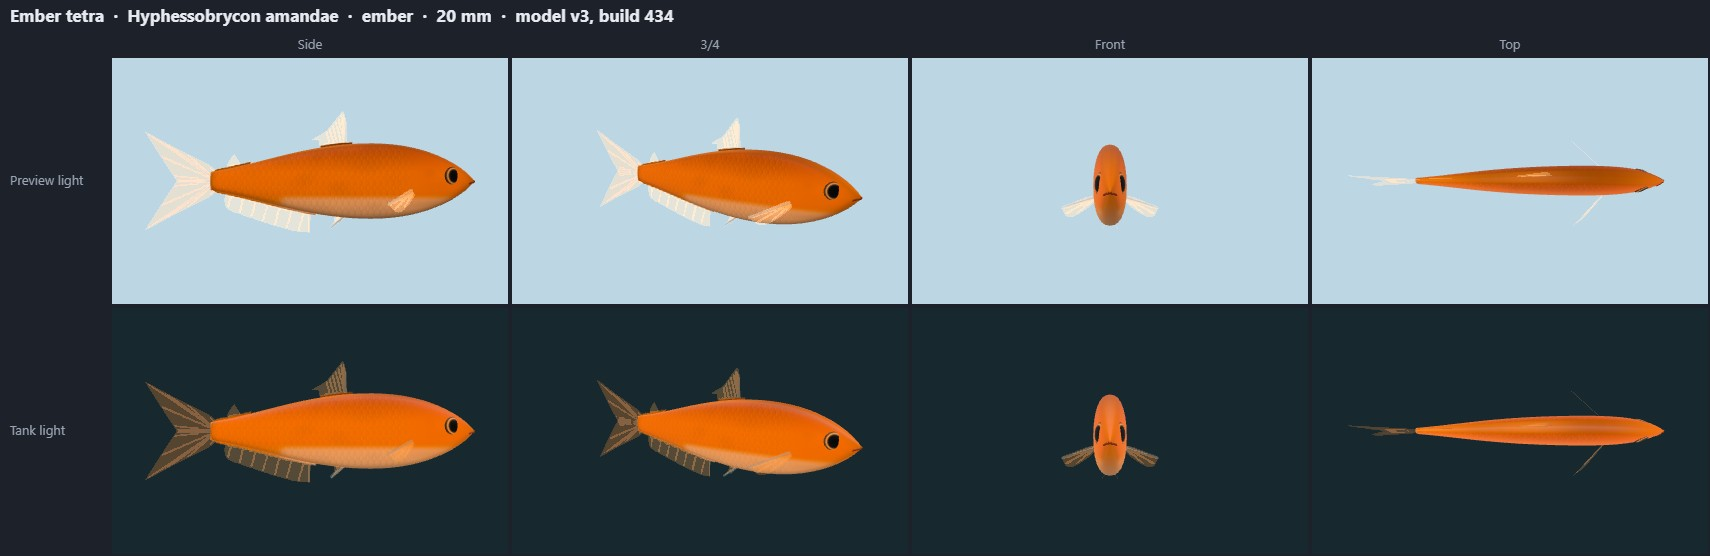
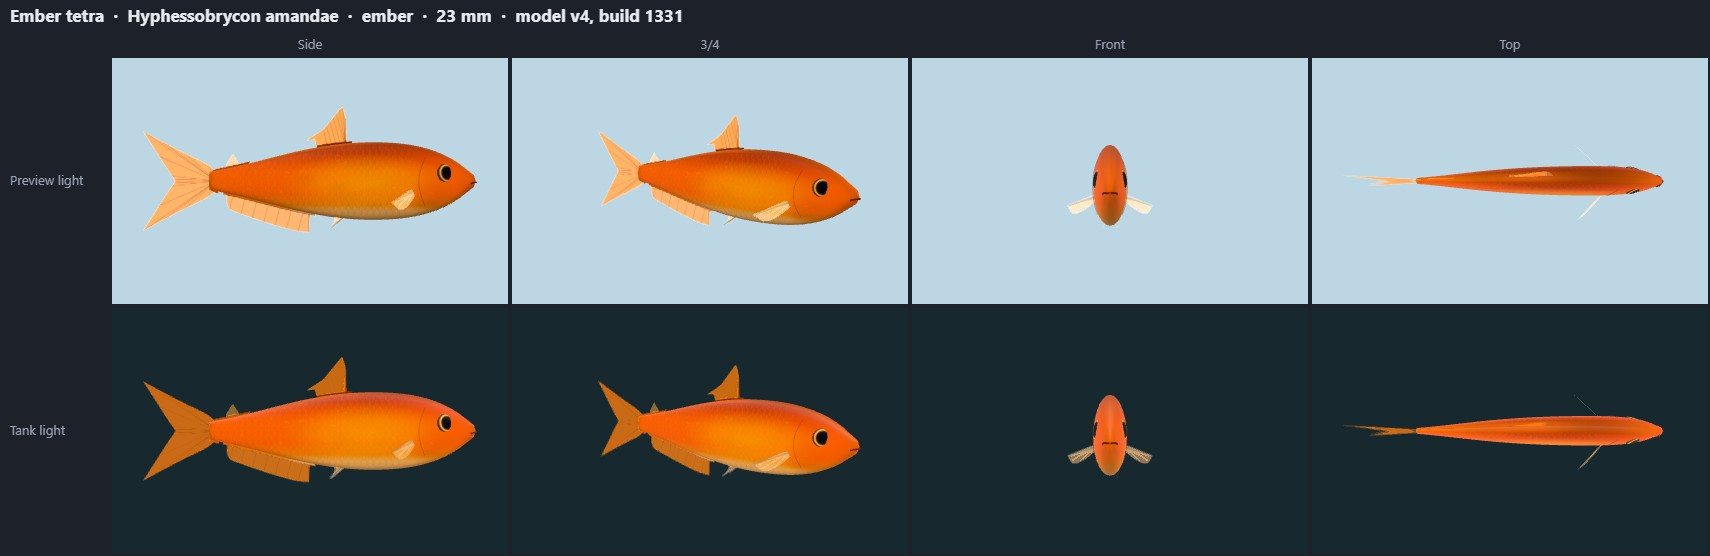
Ember tetra model sheet recorded: v4 (the ChatGPT realism pass)

diff --git a/public/model-sheets/index.html b/public/model-sheets/index.html
@@ -10,45 +10,49 @@ figure { margin: 8px 0 14px; padding: 8px; background: var(--panel); border-radi
 img { display: block; max-width: 100%; height: auto }
 </style></head><body>
 <h1>Model sheets</h1>
-<p>Pre-rendered review images of every TankLook animal model (no WebGL needed): 137 models, 86 species, written at build 1166.
+<p>Pre-rendered review images of every TankLook animal model (no WebGL needed): 147 models, 96 species, written at build 1331.
 Each sheet shows the Side, 3/4, Front, Top views; top row in the plain preview light, bottom row at true size in the default tank's LED light and water.
 Click a sheet for the full-size image (1710 × 556 px). Interactive version: <a href="../review.html">review.html</a>.</p>
 <h2>Freshwater fish</h2>
 <figure id="neon"><figcaption><b>Neon tetra</b> · <i>Paracheirodon innesi</i> · neon · 38 mm · model v3 (build 434, 2026-10-15)</figcaption><a href="neon.jpg"><img src="neon.jpg" width="1710" height="556" loading="lazy" alt="Neon tetra (Paracheirodon innesi), model v3: Side, 3/4, Front, Top views, preview light (top row) and tank light (bottom row)"></a></figure>
 <figure id="cardinal"><figcaption><b>Cardinal tetra</b> · <i>Paracheirodon axelrodi</i> · cardinal · 45 mm · model v3 (build 434, 2026-10-15)</figcaption><a href="cardinal.jpg"><img src="cardinal.jpg" width="1710" height="556" loading="lazy" alt="Cardinal tetra (Paracheirodon axelrodi), model v3: Side, 3/4, Front, Top views, preview light (top row) and tank light (bottom row)"></a></figure>
-<figure id="ember"><figcaption><b>Ember tetra</b> · <i>Hyphessobrycon amandae</i> · ember · 20 mm · model v3 (build 434, 2026-10-15)</figcaption><a href="ember.jpg"><img src="ember.jpg" width="1710" height="556" loading="lazy" alt="Ember tetra (Hyphessobrycon amandae), model v3: Side, 3/4, Front, Top views, preview light (top row) and tank light (bottom row)"></a></figure>
+<figure id="ember"><figcaption><b>Ember tetra</b> · <i>Hyphessobrycon amandae</i> · ember · 23 mm · model v4 (build 1331, 2026-10-27)</figcaption><a href="ember.jpg"><img src="ember.jpg" width="1710" height="556" loading="lazy" alt="Ember tetra (Hyphessobrycon amandae), model v4: Side, 3/4, Front, Top views, preview light (top row) and tank light (bottom row)"></a></figure>
 <figure id="dwarfpencil"><figcaption><b>Dwarf pencilfish</b> · <i>Nannostomus marginatus</i> · dwarfpencil · 35 mm · model v2 (build 1166, 2026-10-22)</figcaption><a href="dwarfpencil.jpg"><img src="dwarfpencil.jpg" width="1710" height="556" loading="lazy" alt="Dwarf pencilfish (Nannostomus marginatus), model v2: Side, 3/4, Front, Top views, preview light (top row) and tank light (bottom row)"></a></figure>
+<figure id="greenneon"><figcaption><b>Green neon tetra</b> · <i>Paracheirodon simulans</i> · greenneon · 30 mm · model v1 (build 1271, 2026-10-26)</figcaption><a href="greenneon.jpg"><img src="greenneon.jpg" width="1710" height="556" loading="lazy" alt="Green neon tetra (Paracheirodon simulans), model v1: Side, 3/4, Front, Top views, preview light (top row) and tank light (bottom row)"></a></figure>
+<figure id="merah"><figcaption><b>Strawberry rasbora</b> · <i>Boraras merah</i> · merah · 24 mm · model v1 (build 1271, 2026-10-26)</figcaption><a href="merah.jpg"><img src="merah.jpg" width="1710" height="556" loading="lazy" alt="Strawberry rasbora (Boraras merah), model v1: Side, 3/4, Front, Top views, preview light (top row) and tank light (bottom row)"></a></figure>
+<figure id="exclamation"><figcaption><b>Exclamation point rasbora</b> · <i>Boraras urophthalmoides</i> · exclamation · 19 mm · model v1 (build 1271, 2026-10-26)</figcaption><a href="exclamation.jpg"><img src="exclamation.jpg" width="1710" height="556" loading="lazy" alt="Exclamation point rasbora (Boraras urophthalmoides), model v1: Side, 3/4, Front, Top views, preview light (top row) and tank light (bottom row)"></a></figure>
+<figure id="dwarfrasbora"><figcaption><b>Dwarf spotted rasbora</b> · <i>Boraras maculatus</i> · dwarfrasbora · 30 mm · model v1 (build 1271, 2026-10-26)</figcaption><a href="dwarfrasbora.jpg"><img src="dwarfrasbora.jpg" width="1710" height="556" loading="lazy" alt="Dwarf spotted rasbora (Boraras maculatus), model v1: Side, 3/4, Front, Top views, preview light (top row) and tank light (bottom row)"></a></figure>
 <figure id="rummynose"><figcaption><b>Rummy-nose tetra</b> · <i>Hemigrammus rhodostomus</i> · rummynose · 50 mm · model v3 (build 434, 2026-10-15)</figcaption><a href="rummynose.jpg"><img src="rummynose.jpg" width="1710" height="556" loading="lazy" alt="Rummy-nose tetra (Hemigrammus rhodostomus), model v3: Side, 3/4, Front, Top views, preview light (top row) and tank light (bottom row)"></a></figure>
 <figure id="harlequin"><figcaption><b>Harlequin rasbora</b> · <i>Trigonostigma heteromorpha</i> · harlequin · 50 mm · model v2 (build 386, 2026-10-14)</figcaption><a href="harlequin.jpg"><img src="harlequin.jpg" width="1710" height="556" loading="lazy" alt="Harlequin rasbora (Trigonostigma heteromorpha), model v2: Side, 3/4, Front, Top views, preview light (top row) and tank light (bottom row)"></a></figure>
-<figure id="chili"><figcaption><b>Chili rasbora</b> · <i>Boraras brigittae</i> · chili · 35 mm · model v3 (build 434, 2026-10-15)</figcaption><a href="chili.jpg"><img src="chili.jpg" width="1710" height="556" loading="lazy" alt="Chili rasbora (Boraras brigittae), model v3: Side, 3/4, Front, Top views, preview light (top row) and tank light (bottom row)"></a></figure>
+<figure id="chili"><figcaption><b>Chili rasbora</b> · <i>Boraras brigittae</i> · chili · 23 mm · model v3 (build 434, 2026-10-15)</figcaption><a href="chili.jpg"><img src="chili.jpg" width="1710" height="556" loading="lazy" alt="Chili rasbora (Boraras brigittae), model v3: Side, 3/4, Front, Top views, preview light (top row) and tank light (bottom row)"></a></figure>
 <figure id="danio"><figcaption><b>Zebra danio</b> · <i>Danio rerio</i> · danio · 50 mm · model v2 (build 372, 2026-10-14)</figcaption><a href="danio.jpg"><img src="danio.jpg" width="1710" height="556" loading="lazy" alt="Zebra danio (Danio rerio), model v2: Side, 3/4, Front, Top views, preview light (top row) and tank light (bottom row)"></a></figure>
 <figure id="whitecloud"><figcaption><b>White cloud mountain minnow</b> · <i>Tanichthys albonubes</i> · whitecloud · 40 mm · model v1 (build 568, 2026-10-16)</figcaption><a href="whitecloud.jpg"><img src="whitecloud.jpg" width="1710" height="556" loading="lazy" alt="White cloud mountain minnow (Tanichthys albonubes), model v1: Side, 3/4, Front, Top views, preview light (top row) and tank light (bottom row)"></a></figure>
 <figure id="cpd"><figcaption><b>Celestial pearl danio ♂</b> · <i>Danio margaritatus</i> · cpd · 25 mm · model v3 (build 434, 2026-10-15)</figcaption><a href="cpd.jpg"><img src="cpd.jpg" width="1710" height="556" loading="lazy" alt="Celestial pearl danio ♂ (Danio margaritatus), model v3: Side, 3/4, Front, Top views, preview light (top row) and tank light (bottom row)"></a></figure>
 <figure id="cpd-f"><figcaption><b>Celestial pearl danio ♀</b> · <i>Danio margaritatus</i> · cpd~f · 25 mm · model v3 (build 434, 2026-10-15)</figcaption><a href="cpd-f.jpg"><img src="cpd-f.jpg" width="1710" height="556" loading="lazy" alt="Celestial pearl danio ♀ (Danio margaritatus), model v3: Side, 3/4, Front, Top views, preview light (top row) and tank light (bottom row)"></a></figure>
-<figure id="hatchet"><figcaption><b>Marbled hatchetfish</b> · <i>Carnegiella strigata</i> · hatchet · 35 mm · model v2 (build 351, 2026-10-14)</figcaption><a href="hatchet.jpg"><img src="hatchet.jpg" width="1710" height="556" loading="lazy" alt="Marbled hatchetfish (Carnegiella strigata), model v2: Side, 3/4, Front, Top views, preview light (top row) and tank light (bottom row)"></a></figure>
+<figure id="hatchet"><figcaption><b>Marbled hatchetfish</b> · <i>Carnegiella strigata</i> · hatchet · 40 mm · model v2 (build 351, 2026-10-14)</figcaption><a href="hatchet.jpg"><img src="hatchet.jpg" width="1710" height="556" loading="lazy" alt="Marbled hatchetfish (Carnegiella strigata), model v2: Side, 3/4, Front, Top views, preview light (top row) and tank light (bottom row)"></a></figure>
 <figure id="cherrybarb"><figcaption><b>Cherry barb ♂</b> · <i>Rohanella (Puntius) titteya</i> · cherrybarb · 55 mm · model v2 (build 372, 2026-10-14)</figcaption><a href="cherrybarb.jpg"><img src="cherrybarb.jpg" width="1710" height="556" loading="lazy" alt="Cherry barb ♂ (Rohanella (Puntius) titteya), model v2: Side, 3/4, Front, Top views, preview light (top row) and tank light (bottom row)"></a></figure>
 <figure id="cherrybarb-f"><figcaption><b>Cherry barb ♀</b> · <i>Rohanella (Puntius) titteya</i> · cherrybarb~f · 50 mm · model v2 (build 372, 2026-10-14)</figcaption><a href="cherrybarb-f.jpg"><img src="cherrybarb-f.jpg" width="1710" height="556" loading="lazy" alt="Cherry barb ♀ (Rohanella (Puntius) titteya), model v2: Side, 3/4, Front, Top views, preview light (top row) and tank light (bottom row)"></a></figure>
 <figure id="tigerbarb"><figcaption><b>Tiger barb</b> · <i>Puntigrus tetrazona</i> · tigerbarb · 70 mm · model v2 (build 372, 2026-10-14)</figcaption><a href="tigerbarb.jpg"><img src="tigerbarb.jpg" width="1710" height="556" loading="lazy" alt="Tiger barb (Puntigrus tetrazona), model v2: Side, 3/4, Front, Top views, preview light (top row) and tank light (bottom row)"></a></figure>
 <figure id="boesemani"><figcaption><b>Boeseman's rainbowfish ♂</b> · <i>Melanotaenia boesemani</i> · boesemani · 108 mm · model v1 (build 567, 2026-10-16)</figcaption><a href="boesemani.jpg"><img src="boesemani.jpg" width="1710" height="556" loading="lazy" alt="Boeseman's rainbowfish ♂ (Melanotaenia boesemani), model v1: Side, 3/4, Front, Top views, preview light (top row) and tank light (bottom row)"></a></figure>
 <figure id="boesemani-f"><figcaption><b>Boeseman's rainbowfish ♀</b> · <i>Melanotaenia boesemani</i> · boesemani~f · 80 mm · model v1 (build 567, 2026-10-16)</figcaption><a href="boesemani-f.jpg"><img src="boesemani-f.jpg" width="1710" height="556" loading="lazy" alt="Boeseman's rainbowfish ♀ (Melanotaenia boesemani), model v1: Side, 3/4, Front, Top views, preview light (top row) and tank light (bottom row)"></a></figure>
-<figure id="guppy"><figcaption><b>Guppy ♂</b> · <i>Poecilia reticulata</i> · guppy · 30 mm · model v2 (build 351, 2026-10-14)</figcaption><a href="guppy.jpg"><img src="guppy.jpg" width="1710" height="556" loading="lazy" alt="Guppy ♂ (Poecilia reticulata), model v2: Side, 3/4, Front, Top views, preview light (top row) and tank light (bottom row)"></a></figure>
+<figure id="guppy"><figcaption><b>Guppy ♂</b> · <i>Poecilia reticulata</i> · guppy · 38 mm · model v2 (build 351, 2026-10-14)</figcaption><a href="guppy.jpg"><img src="guppy.jpg" width="1710" height="556" loading="lazy" alt="Guppy ♂ (Poecilia reticulata), model v2: Side, 3/4, Front, Top views, preview light (top row) and tank light (bottom row)"></a></figure>
 <figure id="guppy-f"><figcaption><b>Guppy ♀</b> · <i>Poecilia reticulata</i> · guppy~f · 54 mm · model v2 (build 351, 2026-10-14)</figcaption><a href="guppy-f.jpg"><img src="guppy-f.jpg" width="1710" height="556" loading="lazy" alt="Guppy ♀ (Poecilia reticulata), model v2: Side, 3/4, Front, Top views, preview light (top row) and tank light (bottom row)"></a></figure>
 <figure id="platy"><figcaption><b>Platy ♂</b> · <i>Xiphophorus maculatus</i> · platy · 40 mm · model v3 (build 435, 2026-10-15)</figcaption><a href="platy.jpg"><img src="platy.jpg" width="1710" height="556" loading="lazy" alt="Platy ♂ (Xiphophorus maculatus), model v3: Side, 3/4, Front, Top views, preview light (top row) and tank light (bottom row)"></a></figure>
 <figure id="platy-f"><figcaption><b>Platy ♀</b> · <i>Xiphophorus maculatus</i> · platy~f · 60 mm · model v1 (build 435, 2026-10-15)</figcaption><a href="platy-f.jpg"><img src="platy-f.jpg" width="1710" height="556" loading="lazy" alt="Platy ♀ (Xiphophorus maculatus), model v1: Side, 3/4, Front, Top views, preview light (top row) and tank light (bottom row)"></a></figure>
 <figure id="molly"><figcaption><b>Black molly ♂</b> · <i>Poecilia sphenops</i> · molly · 85 mm · model v3 (build 435, 2026-10-15)</figcaption><a href="molly.jpg"><img src="molly.jpg" width="1710" height="556" loading="lazy" alt="Black molly ♂ (Poecilia sphenops), model v3: Side, 3/4, Front, Top views, preview light (top row) and tank light (bottom row)"></a></figure>
 <figure id="molly-f"><figcaption><b>Black molly ♀</b> · <i>Poecilia sphenops</i> · molly~f · 96 mm · model v1 (build 435, 2026-10-15)</figcaption><a href="molly-f.jpg"><img src="molly-f.jpg" width="1710" height="556" loading="lazy" alt="Black molly ♀ (Poecilia sphenops), model v1: Side, 3/4, Front, Top views, preview light (top row) and tank light (bottom row)"></a></figure>
-<figure id="swordtail"><figcaption><b>Swordtail ♂</b> · <i>Xiphophorus hellerii</i> · swordtail · 140 mm · model v2 (build 351, 2026-10-14)</figcaption><a href="swordtail.jpg"><img src="swordtail.jpg" width="1710" height="556" loading="lazy" alt="Swordtail ♂ (Xiphophorus hellerii), model v2: Side, 3/4, Front, Top views, preview light (top row) and tank light (bottom row)"></a></figure>
-<figure id="swordtail-f"><figcaption><b>Swordtail ♀</b> · <i>Xiphophorus hellerii</i> · swordtail~f · 160 mm · model v2 (build 351, 2026-10-14)</figcaption><a href="swordtail-f.jpg"><img src="swordtail-f.jpg" width="1710" height="556" loading="lazy" alt="Swordtail ♀ (Xiphophorus hellerii), model v2: Side, 3/4, Front, Top views, preview light (top row) and tank light (bottom row)"></a></figure>
+<figure id="swordtail"><figcaption><b>Swordtail ♂</b> · <i>Xiphophorus hellerii</i> · swordtail · 110 mm · model v2 (build 351, 2026-10-14)</figcaption><a href="swordtail.jpg"><img src="swordtail.jpg" width="1710" height="556" loading="lazy" alt="Swordtail ♂ (Xiphophorus hellerii), model v2: Side, 3/4, Front, Top views, preview light (top row) and tank light (bottom row)"></a></figure>
+<figure id="swordtail-f"><figcaption><b>Swordtail ♀</b> · <i>Xiphophorus hellerii</i> · swordtail~f · 120 mm · model v2 (build 351, 2026-10-14)</figcaption><a href="swordtail-f.jpg"><img src="swordtail-f.jpg" width="1710" height="556" loading="lazy" alt="Swordtail ♀ (Xiphophorus hellerii), model v2: Side, 3/4, Front, Top views, preview light (top row) and tank light (bottom row)"></a></figure>
 <figure id="betta"><figcaption><b>Betta ♂</b> · <i>Betta splendens</i> · betta · 65 mm · model v2 (build 351, 2026-10-14)</figcaption><a href="betta.jpg"><img src="betta.jpg" width="1710" height="556" loading="lazy" alt="Betta ♂ (Betta splendens), model v2: Side, 3/4, Front, Top views, preview light (top row) and tank light (bottom row)"></a></figure>
 <figure id="betta-f"><figcaption><b>Betta ♀</b> · <i>Betta splendens</i> · betta~f · 55 mm · model v2 (build 351, 2026-10-14)</figcaption><a href="betta-f.jpg"><img src="betta-f.jpg" width="1710" height="556" loading="lazy" alt="Betta ♀ (Betta splendens), model v2: Side, 3/4, Front, Top views, preview light (top row) and tank light (bottom row)"></a></figure>
-<figure id="dwarfgourami"><figcaption><b>Dwarf gourami ♂</b> · <i>Trichogaster lalius</i> · dwarfgourami · 95 mm · model v2 (build 330, 2026-10-14)</figcaption><a href="dwarfgourami.jpg"><img src="dwarfgourami.jpg" width="1710" height="556" loading="lazy" alt="Dwarf gourami ♂ (Trichogaster lalius), model v2: Side, 3/4, Front, Top views, preview light (top row) and tank light (bottom row)"></a></figure>
+<figure id="dwarfgourami"><figcaption><b>Dwarf gourami ♂</b> · <i>Trichogaster lalius</i> · dwarfgourami · 80 mm · model v2 (build 330, 2026-10-14)</figcaption><a href="dwarfgourami.jpg"><img src="dwarfgourami.jpg" width="1710" height="556" loading="lazy" alt="Dwarf gourami ♂ (Trichogaster lalius), model v2: Side, 3/4, Front, Top views, preview light (top row) and tank light (bottom row)"></a></figure>
 <figure id="dwarfgourami-f"><figcaption><b>Dwarf gourami ♀</b> · <i>Trichogaster lalius</i> · dwarfgourami~f · 65 mm · model v2 (build 330, 2026-10-14)</figcaption><a href="dwarfgourami-f.jpg"><img src="dwarfgourami-f.jpg" width="1710" height="556" loading="lazy" alt="Dwarf gourami ♀ (Trichogaster lalius), model v2: Side, 3/4, Front, Top views, preview light (top row) and tank light (bottom row)"></a></figure>
-<figure id="honeygourami"><figcaption><b>Honey gourami ♂</b> · <i>Trichogaster chuna</i> · honeygourami · 50 mm · model v3 (build 330, 2026-10-14)</figcaption><a href="honeygourami.jpg"><img src="honeygourami.jpg" width="1710" height="556" loading="lazy" alt="Honey gourami ♂ (Trichogaster chuna), model v3: Side, 3/4, Front, Top views, preview light (top row) and tank light (bottom row)"></a></figure>
-<figure id="honeygourami-f"><figcaption><b>Honey gourami ♀</b> · <i>Trichogaster chuna</i> · honeygourami~f · 50 mm · model v2 (build 330, 2026-10-14)</figcaption><a href="honeygourami-f.jpg"><img src="honeygourami-f.jpg" width="1710" height="556" loading="lazy" alt="Honey gourami ♀ (Trichogaster chuna), model v2: Side, 3/4, Front, Top views, preview light (top row) and tank light (bottom row)"></a></figure>
+<figure id="honeygourami"><figcaption><b>Honey gourami ♂</b> · <i>Trichogaster chuna</i> · honeygourami · 60 mm · model v3 (build 330, 2026-10-14)</figcaption><a href="honeygourami.jpg"><img src="honeygourami.jpg" width="1710" height="556" loading="lazy" alt="Honey gourami ♂ (Trichogaster chuna), model v3: Side, 3/4, Front, Top views, preview light (top row) and tank light (bottom row)"></a></figure>
+<figure id="honeygourami-f"><figcaption><b>Honey gourami ♀</b> · <i>Trichogaster chuna</i> · honeygourami~f · 60 mm · model v2 (build 330, 2026-10-14)</figcaption><a href="honeygourami-f.jpg"><img src="honeygourami-f.jpg" width="1710" height="556" loading="lazy" alt="Honey gourami ♀ (Trichogaster chuna), model v2: Side, 3/4, Front, Top views, preview light (top row) and tank light (bottom row)"></a></figure>
 <figure id="gourami"><figcaption><b>Pearl gourami ♂</b> · <i>Trichopodus leerii</i> · gourami · 120 mm · model v2 (build 330, 2026-10-14)</figcaption><a href="gourami.jpg"><img src="gourami.jpg" width="1710" height="556" loading="lazy" alt="Pearl gourami ♂ (Trichopodus leerii), model v2: Side, 3/4, Front, Top views, preview light (top row) and tank light (bottom row)"></a></figure>
 <figure id="gourami-f"><figcaption><b>Pearl gourami ♀</b> · <i>Trichopodus leerii</i> · gourami~f · 110 mm · model v2 (build 330, 2026-10-14)</figcaption><a href="gourami-f.jpg"><img src="gourami-f.jpg" width="1710" height="556" loading="lazy" alt="Pearl gourami ♀ (Trichopodus leerii), model v2: Side, 3/4, Front, Top views, preview light (top row) and tank light (bottom row)"></a></figure>
-<figure id="gbr"><figcaption><b>German blue ram ♂</b> · <i>Mikrogeophagus ramirezi</i> · gbr · 60 mm · model v2 (build 330, 2026-10-14)</figcaption><a href="gbr.jpg"><img src="gbr.jpg" width="1710" height="556" loading="lazy" alt="German blue ram ♂ (Mikrogeophagus ramirezi), model v2: Side, 3/4, Front, Top views, preview light (top row) and tank light (bottom row)"></a></figure>
-<figure id="gbr-f"><figcaption><b>German blue ram ♀</b> · <i>Mikrogeophagus ramirezi</i> · gbr~f · 50 mm · model v2 (build 330, 2026-10-14)</figcaption><a href="gbr-f.jpg"><img src="gbr-f.jpg" width="1710" height="556" loading="lazy" alt="German blue ram ♀ (Mikrogeophagus ramirezi), model v2: Side, 3/4, Front, Top views, preview light (top row) and tank light (bottom row)"></a></figure>
+<figure id="gbr"><figcaption><b>German blue ram ♂</b> · <i>Mikrogeophagus ramirezi</i> · gbr · 50 mm · model v2 (build 330, 2026-10-14)</figcaption><a href="gbr.jpg"><img src="gbr.jpg" width="1710" height="556" loading="lazy" alt="German blue ram ♂ (Mikrogeophagus ramirezi), model v2: Side, 3/4, Front, Top views, preview light (top row) and tank light (bottom row)"></a></figure>
+<figure id="gbr-f"><figcaption><b>German blue ram ♀</b> · <i>Mikrogeophagus ramirezi</i> · gbr~f · 42 mm · model v2 (build 330, 2026-10-14)</figcaption><a href="gbr-f.jpg"><img src="gbr-f.jpg" width="1710" height="556" loading="lazy" alt="German blue ram ♀ (Mikrogeophagus ramirezi), model v2: Side, 3/4, Front, Top views, preview light (top row) and tank light (bottom row)"></a></figure>
 <figure id="bolivianram"><figcaption><b>Bolivian ram</b> · <i>Mikrogeophagus altispinosus</i> · bolivianram · 89 mm · model v2 (build 330, 2026-10-14)</figcaption><a href="bolivianram.jpg"><img src="bolivianram.jpg" width="1710" height="556" loading="lazy" alt="Bolivian ram (Mikrogeophagus altispinosus), model v2: Side, 3/4, Front, Top views, preview light (top row) and tank light (bottom row)"></a></figure>
 <figure id="kribensis"><figcaption><b>Kribensis ♂</b> · <i>Pelvicachromis pulcher</i> · kribensis · 110 mm · model v2 (build 334, 2026-10-14)</figcaption><a href="kribensis.jpg"><img src="kribensis.jpg" width="1710" height="556" loading="lazy" alt="Kribensis ♂ (Pelvicachromis pulcher), model v2: Side, 3/4, Front, Top views, preview light (top row) and tank light (bottom row)"></a></figure>
 <figure id="kribensis-f"><figcaption><b>Kribensis ♀</b> · <i>Pelvicachromis pulcher</i> · kribensis~f · 75 mm · model v2 (build 334, 2026-10-14)</figcaption><a href="kribensis-f.jpg"><img src="kribensis-f.jpg" width="1710" height="556" loading="lazy" alt="Kribensis ♀ (Pelvicachromis pulcher), model v2: Side, 3/4, Front, Top views, preview light (top row) and tank light (bottom row)"></a></figure>
@@ -59,8 +63,8 @@ Click a sheet for the full-size image (1710 × 556 px). Interactive version: <a 
 <figure id="peacock"><figcaption><b>Peacock cichlid ♂</b> · <i>Aulonocara stuartgranti</i> · peacock · 118 mm · model v1 (build 667, 2026-10-16)</figcaption><a href="peacock.jpg"><img src="peacock.jpg" width="1710" height="556" loading="lazy" alt="Peacock cichlid ♂ (Aulonocara stuartgranti), model v1: Side, 3/4, Front, Top views, preview light (top row) and tank light (bottom row)"></a></figure>
 <figure id="peacock-f"><figcaption><b>Peacock cichlid ♀</b> · <i>Aulonocara stuartgranti</i> · peacock~f · 100 mm · model v1 (build 667, 2026-10-16)</figcaption><a href="peacock-f.jpg"><img src="peacock-f.jpg" width="1710" height="556" loading="lazy" alt="Peacock cichlid ♀ (Aulonocara stuartgranti), model v1: Side, 3/4, Front, Top views, preview light (top row) and tank light (bottom row)"></a></figure>
 <figure id="demasoni"><figcaption><b>Demasoni cichlid</b> · <i>Pseudotropheus demasoni</i> · demasoni · 70 mm · model v1 (build 667, 2026-10-16)</figcaption><a href="demasoni.jpg"><img src="demasoni.jpg" width="1710" height="556" loading="lazy" alt="Demasoni cichlid (Pseudotropheus demasoni), model v1: Side, 3/4, Front, Top views, preview light (top row) and tank light (bottom row)"></a></figure>
-<figure id="kadango"><figcaption><b>Kadango (red-fin) cichlid ♂</b> · <i>Copadichromis borleyi</i> · kadango · 140 mm · model v1 (build 667, 2026-10-16)</figcaption><a href="kadango.jpg"><img src="kadango.jpg" width="1710" height="556" loading="lazy" alt="Kadango (red-fin) cichlid ♂ (Copadichromis borleyi), model v1: Side, 3/4, Front, Top views, preview light (top row) and tank light (bottom row)"></a></figure>
-<figure id="kadango-f"><figcaption><b>Kadango (red-fin) cichlid ♀</b> · <i>Copadichromis borleyi</i> · kadango~f · 120 mm · model v1 (build 667, 2026-10-16)</figcaption><a href="kadango-f.jpg"><img src="kadango-f.jpg" width="1710" height="556" loading="lazy" alt="Kadango (red-fin) cichlid ♀ (Copadichromis borleyi), model v1: Side, 3/4, Front, Top views, preview light (top row) and tank light (bottom row)"></a></figure>
+<figure id="kadango"><figcaption><b>Kadango (red-fin) cichlid ♂</b> · <i>Copadichromis borleyi</i> · kadango · 170 mm · model v1 (build 667, 2026-10-16)</figcaption><a href="kadango.jpg"><img src="kadango.jpg" width="1710" height="556" loading="lazy" alt="Kadango (red-fin) cichlid ♂ (Copadichromis borleyi), model v1: Side, 3/4, Front, Top views, preview light (top row) and tank light (bottom row)"></a></figure>
+<figure id="kadango-f"><figcaption><b>Kadango (red-fin) cichlid ♀</b> · <i>Copadichromis borleyi</i> · kadango~f · 140 mm · model v1 (build 667, 2026-10-16)</figcaption><a href="kadango-f.jpg"><img src="kadango-f.jpg" width="1710" height="556" loading="lazy" alt="Kadango (red-fin) cichlid ♀ (Copadichromis borleyi), model v1: Side, 3/4, Front, Top views, preview light (top row) and tank light (bottom row)"></a></figure>
 <figure id="labeo"><figcaption><b>Blue-nosed mbuna</b> · <i>Labeotropheus trewavasae</i> · labeo · 120 mm · model v1 (build 667, 2026-10-16)</figcaption><a href="labeo.jpg"><img src="labeo.jpg" width="1710" height="556" loading="lazy" alt="Blue-nosed mbuna (Labeotropheus trewavasae), model v1: Side, 3/4, Front, Top views, preview light (top row) and tank light (bottom row)"></a></figure>
 <figure id="auratus"><figcaption><b>Golden mbuna ♂</b> · <i>Melanochromis auratus</i> · auratus · 110 mm · model v1 (build 667, 2026-10-16)</figcaption><a href="auratus.jpg"><img src="auratus.jpg" width="1710" height="556" loading="lazy" alt="Golden mbuna ♂ (Melanochromis auratus), model v1: Side, 3/4, Front, Top views, preview light (top row) and tank light (bottom row)"></a></figure>
 <figure id="auratus-f"><figcaption><b>Golden mbuna ♀</b> · <i>Melanochromis auratus</i> · auratus~f · 100 mm · model v1 (build 667, 2026-10-16)</figcaption><a href="auratus-f.jpg"><img src="auratus-f.jpg" width="1710" height="556" loading="lazy" alt="Golden mbuna ♀ (Melanochromis auratus), model v1: Side, 3/4, Front, Top views, preview light (top row) and tank light (bottom row)"></a></figure>
@@ -79,14 +83,20 @@ Click a sheet for the full-size image (1710 × 556 px). Interactive version: <a 
 <figure id="bristlenose"><figcaption><b>Bristlenose pleco</b> · <i>Ancistrus sp.</i> · bristlenose · 125 mm · model v2 (build 334, 2026-10-14)</figcaption><a href="bristlenose.jpg"><img src="bristlenose.jpg" width="1710" height="556" loading="lazy" alt="Bristlenose pleco (Ancistrus sp.), model v2: Side, 3/4, Front, Top views, preview light (top row) and tank light (bottom row)"></a></figure>
 <figure id="oto"><figcaption><b>Otocinclus</b> · <i>Otocinclus vittatus</i> · oto · 33 mm · model v2 (build 359, 2026-10-14)</figcaption><a href="oto.jpg"><img src="oto.jpg" width="1710" height="556" loading="lazy" alt="Otocinclus (Otocinclus vittatus), model v2: Side, 3/4, Front, Top views, preview light (top row) and tank light (bottom row)"></a></figure>
 <figure id="kuhli"><figcaption><b>Kuhli loach</b> · <i>Pangio kuhlii</i> · kuhli · 100 mm · model v2 (build 384, 2026-10-14)</figcaption><a href="kuhli.jpg"><img src="kuhli.jpg" width="1710" height="556" loading="lazy" alt="Kuhli loach (Pangio kuhlii), model v2: Side, 3/4, Front, Top views, preview light (top row) and tank light (bottom row)"></a></figure>
-<figure id="clownloach"><figcaption><b>Clown loach</b> · <i>Chromobotia macracanthus</i> · clownloach · 300 mm · model v2 (build 359, 2026-10-14)</figcaption><a href="clownloach.jpg"><img src="clownloach.jpg" width="1710" height="556" loading="lazy" alt="Clown loach (Chromobotia macracanthus), model v2: Side, 3/4, Front, Top views, preview light (top row) and tank light (bottom row)"></a></figure>
+<figure id="clownloach"><figcaption><b>Clown loach</b> · <i>Chromobotia macracanthus</i> · clownloach · 230 mm · model v2 (build 359, 2026-10-14)</figcaption><a href="clownloach.jpg"><img src="clownloach.jpg" width="1710" height="556" loading="lazy" alt="Clown loach (Chromobotia macracanthus), model v2: Side, 3/4, Front, Top views, preview light (top row) and tank light (bottom row)"></a></figure>
 <figure id="sae"><figcaption><b>Siamese algae eater</b> · <i>Crossocheilus oblongus</i> · sae · 150 mm · model v2 (build 359, 2026-10-14)</figcaption><a href="sae.jpg"><img src="sae.jpg" width="1710" height="556" loading="lazy" alt="Siamese algae eater (Crossocheilus oblongus), model v2: Side, 3/4, Front, Top views, preview light (top row) and tank light (bottom row)"></a></figure>
 <figure id="hillstream"><figcaption><b>Reticulated hillstream loach</b> · <i>Sewellia lineolata</i> · hillstream · 60 mm · model v1 (build 567, 2026-10-16)</figcaption><a href="hillstream.jpg"><img src="hillstream.jpg" width="1710" height="556" loading="lazy" alt="Reticulated hillstream loach (Sewellia lineolata), model v1: Side, 3/4, Front, Top views, preview light (top row) and tank light (bottom row)"></a></figure>
-<figure id="peapuffer"><figcaption><b>Pea puffer ♂</b> · <i>Carinotetraodon travancoricus</i> · peapuffer · 35 mm · model v2 (build 351, 2026-10-14)</figcaption><a href="peapuffer.jpg"><img src="peapuffer.jpg" width="1710" height="556" loading="lazy" alt="Pea puffer ♂ (Carinotetraodon travancoricus), model v2: Side, 3/4, Front, Top views, preview light (top row) and tank light (bottom row)"></a></figure>
-<figure id="peapuffer-f"><figcaption><b>Pea puffer ♀</b> · <i>Carinotetraodon travancoricus</i> · peapuffer~f · 30 mm · model v2 (build 351, 2026-10-14)</figcaption><a href="peapuffer-f.jpg"><img src="peapuffer-f.jpg" width="1710" height="556" loading="lazy" alt="Pea puffer ♀ (Carinotetraodon travancoricus), model v2: Side, 3/4, Front, Top views, preview light (top row) and tank light (bottom row)"></a></figure>
+<figure id="peapuffer"><figcaption><b>Pea puffer ♂</b> · <i>Carinotetraodon travancoricus</i> · peapuffer · 30 mm · model v2 (build 351, 2026-10-14)</figcaption><a href="peapuffer.jpg"><img src="peapuffer.jpg" width="1710" height="556" loading="lazy" alt="Pea puffer ♂ (Carinotetraodon travancoricus), model v2: Side, 3/4, Front, Top views, preview light (top row) and tank light (bottom row)"></a></figure>
+<figure id="peapuffer-f"><figcaption><b>Pea puffer ♀</b> · <i>Carinotetraodon travancoricus</i> · peapuffer~f · 27 mm · model v2 (build 351, 2026-10-14)</figcaption><a href="peapuffer-f.jpg"><img src="peapuffer-f.jpg" width="1710" height="556" loading="lazy" alt="Pea puffer ♀ (Carinotetraodon travancoricus), model v2: Side, 3/4, Front, Top views, preview light (top row) and tank light (bottom row)"></a></figure>
 <h2>Freshwater inverts</h2>
 <figure id="cherryshrimp"><figcaption><b>Cherry shrimp</b> · <i>Neocaridina davidi</i> · cherryshrimp · 30 mm · model v4 (build 448, 2026-10-15)</figcaption><a href="cherryshrimp.jpg"><img src="cherryshrimp.jpg" width="1710" height="556" loading="lazy" alt="Cherry shrimp (Neocaridina davidi), model v4: Side, 3/4, Front, Top views, preview light (top row) and tank light (bottom row)"></a></figure>
 <figure id="amano"><figcaption><b>Amano shrimp</b> · <i>Caridina multidentata</i> · amano · 51 mm · model v4 (build 448, 2026-10-15)</figcaption><a href="amano.jpg"><img src="amano.jpg" width="1710" height="556" loading="lazy" alt="Amano shrimp (Caridina multidentata), model v4: Side, 3/4, Front, Top views, preview light (top row) and tank light (bottom row)"></a></figure>
+<figure id="cpo"><figcaption><b>Orange dwarf crayfish (CPO)</b> · <i>Cambarellus patzcuarensis</i> · cpo · 50 mm · model v1 (build 1271, 2026-10-26)</figcaption><a href="cpo.jpg"><img src="cpo.jpg" width="1710" height="556" loading="lazy" alt="Orange dwarf crayfish (CPO) (Cambarellus patzcuarensis), model v1: Side, 3/4, Front, Top views, preview light (top row) and tank light (bottom row)"></a></figure>
+<figure id="cajundwarf"><figcaption><b>Cajun dwarf crayfish</b> · <i>Cambarellus shufeldtii</i> · cajundwarf · 40 mm · model v1 (build 1271, 2026-10-26)</figcaption><a href="cajundwarf.jpg"><img src="cajundwarf.jpg" width="1710" height="556" loading="lazy" alt="Cajun dwarf crayfish (Cambarellus shufeldtii), model v1: Side, 3/4, Front, Top views, preview light (top row) and tank light (bottom row)"></a></figure>
+<figure id="rswcrayfish"><figcaption><b>Red swamp crayfish</b> · <i>Procambarus clarkii</i> · rswcrayfish · 120 mm · model v1 (build 1271, 2026-10-26)</figcaption><a href="rswcrayfish.jpg"><img src="rswcrayfish.jpg" width="1710" height="556" loading="lazy" alt="Red swamp crayfish (Procambarus clarkii), model v1: Side, 3/4, Front, Top views, preview light (top row) and tank light (bottom row)"></a></figure>
+<figure id="redclaw"><figcaption><b>Redclaw crayfish</b> · <i>Cherax quadricarinatus</i> · redclaw · 200 mm · model v1 (build 1271, 2026-10-26)</figcaption><a href="redclaw.jpg"><img src="redclaw.jpg" width="1710" height="556" loading="lazy" alt="Redclaw crayfish (Cherax quadricarinatus), model v1: Side, 3/4, Front, Top views, preview light (top row) and tank light (bottom row)"></a></figure>
+<figure id="thaicrab"><figcaption><b>Thai micro crab</b> · <i>Limnopilos naiyanetri</i> · thaicrab · 12 mm · model v1 (build 1271, 2026-10-26)</figcaption><a href="thaicrab.jpg"><img src="thaicrab.jpg" width="1710" height="556" loading="lazy" alt="Thai micro crab (Limnopilos naiyanetri), model v1: Side, 3/4, Front, Top views, preview light (top row) and tank light (bottom row)"></a></figure>
+<figure id="asellus"><figcaption><b>Aquatic isopod (water slater)</b> · <i>Asellus aquaticus</i> · asellus · 12 mm · model v1 (build 1271, 2026-10-26)</figcaption><a href="asellus.jpg"><img src="asellus.jpg" width="1710" height="556" loading="lazy" alt="Aquatic isopod (water slater) (Asellus aquaticus), model v1: Side, 3/4, Front, Top views, preview light (top row) and tank light (bottom row)"></a></figure>
 <figure id="nerite"><figcaption><b>Nerite snail (zebra)</b> · <i>Neritina natalensis</i> · nerite · 32 mm · model v3 (build 317, 2026-10-14)</figcaption><a href="nerite.jpg"><img src="nerite.jpg" width="1710" height="556" loading="lazy" alt="Nerite snail (zebra) (Neritina natalensis), model v3: Side, 3/4, Front, Top views, preview light (top row) and tank light (bottom row)"></a></figure>
 <figure id="mystery"><figcaption><b>Mystery snail</b> · <i>Pomacea diffusa</i> · mystery · 51 mm · model v2 (build 288, 2026-10-14)</figcaption><a href="mystery.jpg"><img src="mystery.jpg" width="1710" height="556" loading="lazy" alt="Mystery snail (Pomacea diffusa), model v2: Side, 3/4, Front, Top views, preview light (top row) and tank light (bottom row)"></a></figure>
 <figure id="ramshorn"><figcaption><b>Ramshorn snail</b> · <i>Planorbella duryi</i> · ramshorn · 25 mm · model v3 (build 1096, 2026-10-21)</figcaption><a href="ramshorn.jpg"><img src="ramshorn.jpg" width="1710" height="556" loading="lazy" alt="Ramshorn snail (Planorbella duryi), model v3: Side, 3/4, Front, Top views, preview light (top row) and tank light (bottom row)"></a></figure>
